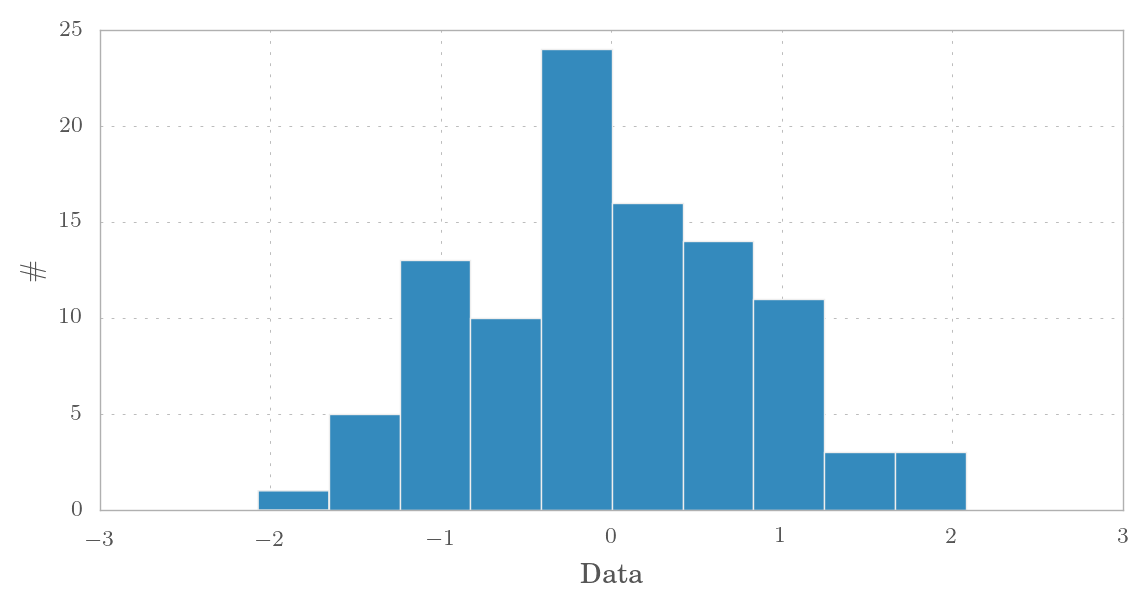
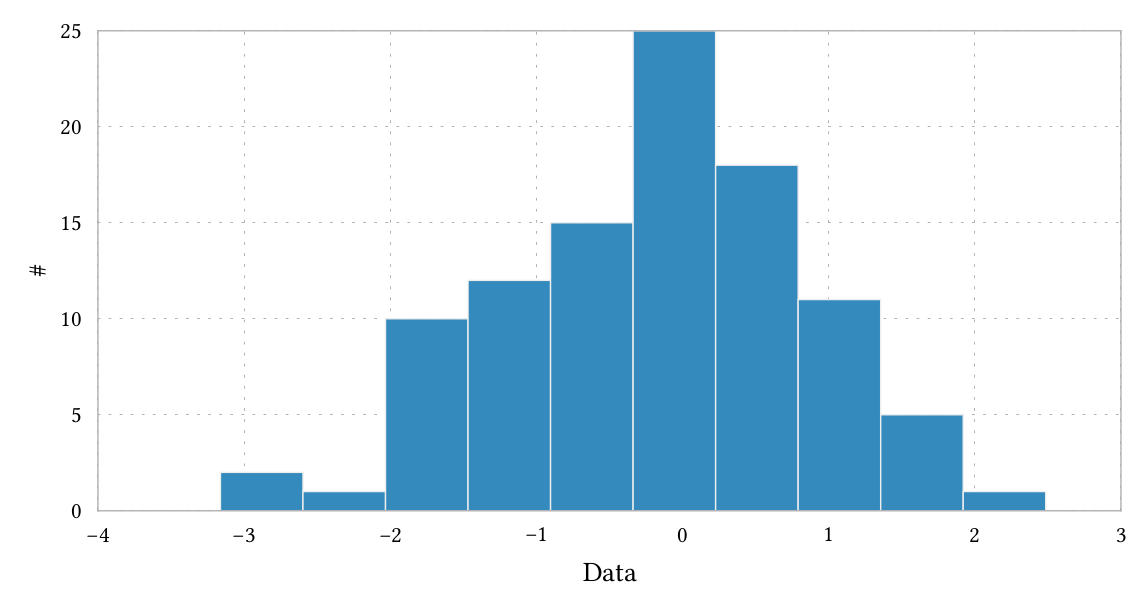
Updated matplotlibrc post

diff --git a/img/posts/2015-02-17-matplotlib-with-style/examples/plot.py b/img/posts/2015-02-17-matplotlib-with-style/examples/plot.py
@@ -1,3 +1,6 @@
+#! /usr/bin/python
+# -*- coding: utf-8 -*-
+
 import numpy as np
 import matplotlib.pyplot as plt
 
@@ -8,6 +11,7 @@ plt.plot(x, np.sin(x), label="$\sin(x)$")
 plt.plot(x, np.cos(x), label="$\sin(x)$")
 
 plt.xlim((np.min(x), np.max(x)))
+plt.ylim((-1.1, 1.1))
 
 plt.xlabel("$x$")
 plt.ylabel("$y$")
@@ -19,6 +23,7 @@ data = np.random.normal(0, 1, 100)
 
 plt.hist(data, bins=10)
 
-plt.xlabel("Data")
+plt.xlabel(r"Data")
 plt.ylabel("$\#$")
+
 plt.savefig('hist.png', bbox_inches='tight', dpi=200)

diff --git a/_posts/2015-02-20-matplotlib-with-style.md b/_posts/2015-02-20-matplotlib-with-style.md
@@ -1,0 +1,37 @@
+---
+layout: post
+title: "Matplotlib With Style"
+feature-img: "img/posts/2015-02-17-matplotlib-with-style/teaser.jpg"
+description: ""
+category: 
+tags: []
+---
+
+[matplotlib](http://matplotlib.org/) definitely is the first choice for generating plots from Python and has established itself as the _de facto_ standard in scientific plotting. Despite providing a simple interface, it comes with support for even the most exotic graphics. However, the default styling looks dull and could definitely need an update! This article will introduce a custom plotting style that is more pleasing to the eye while it does not distract from the underlaying objective: creating informative and clear graphics.
+
+The presented theme was derived from the excellent [work of Huy Nguyen](http://www.huyng.com/posts/sane-color-scheme-for-matplotlib/). His `matplotlibrc` file is inspired by the default [ggplot2](http://ggplot2.org/) design and was specificly compiled for plots viewed on a computer screen. My take on this topic however is intended to generate plots which are crisp and look beautiful on screen as well as paper.
+
+![A simple plot of trigonometric functions.](/img/posts/2015-02-17-matplotlib-with-style/examples/trig.png){:.half}
+![An examplary histogram.](/img/posts/2015-02-17-matplotlib-with-style/examples/hist.png){:.half}
+
+The following paragraphs are meant to explain the choices made for this style. They do by no means represent a scientific derivation but merely resemble my personal taste -- and incorporate feedback from many friends and colleagues.
+
+### Rendering
+
+I am using the `pgf` backend which has been introduced to `matplotlib` quite lately. It leaves the rendering to [XeLaTeX](http://www.xelatex.org/) or [LuaLaTex](http://www.luatex.org/) and can generate [pgf](https://www.ctan.org/pkg/pgf) compatible output which can be embedded directly into LaTeX documents.
+
+For printing purposes, I primarily use fonts from the amazing open fonts project [Linux Libertine](http://www.linuxlibertine.org/). This of course is debatable -- especially for on-screen viewing. For presentations, I mostly switch to Mozilla's [Fira Sans](https://www.mozilla.org/en-US/styleguide/products/firefox-os/typeface/).
+
+Caveat: the `pgf` backend does not support `plt.show()` to show a live version of the plot. I simply work around this issue by writing the output to a file.
+
+### Color Scheme
+
+The most important component of the color scheme is of course the coloring of the actual data. The following palette is intended to please the eye while at the same time ensuring enough contrast between successive data sets.
+
+![Color palette used in this style.](/img/posts/2015-02-17-matplotlib-with-style/color-scheme.png){:.half}
+
+This palette was taken from the `matplotlibrc` this style is based on. However, the background color was set to white instead of grey. This does not only make sense for printing, but also increases contrast in general. Lines and grid are kept in a light grey tone in order not to distract from the actual content.
+
+## Usage
+
+My `matplotlibrc` is hostet at GitHub: [https://github.com/sbillaudelle/matplotlibrc](https://github.com/sbillaudelle/matplotlibrc). I will try to keep it up to date and would love to get some feedback from you!
